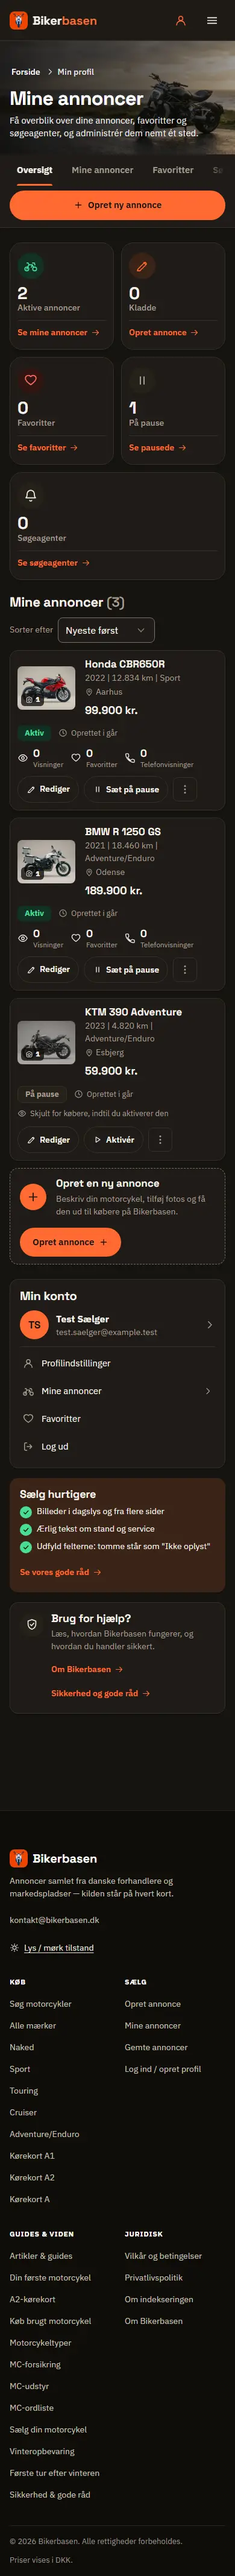
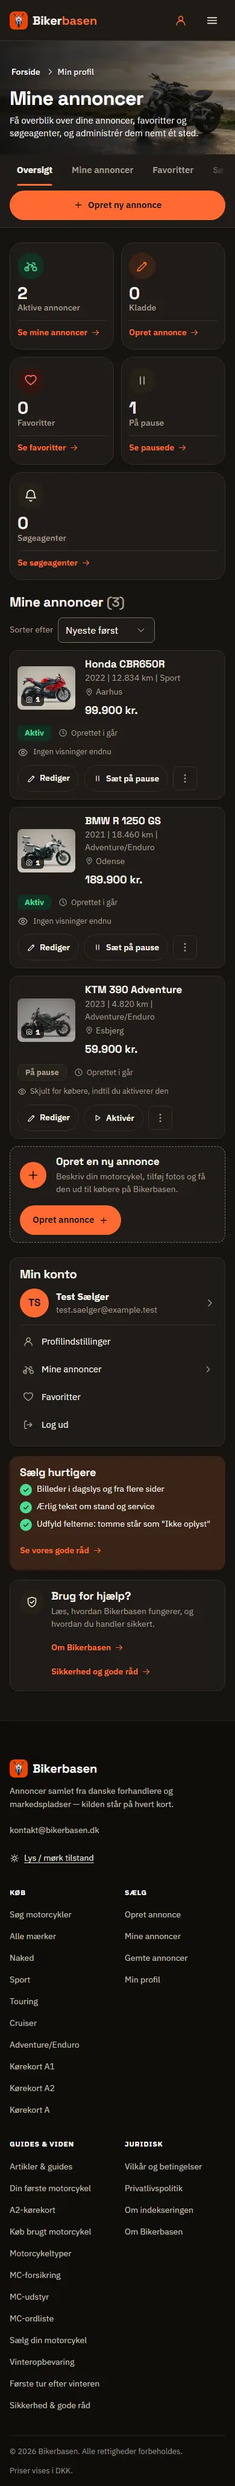
docs: agent5 iteration 3

Changed region(s): [[0.0308, 0.0, 1.0, 0.683], [0.0308, 0.683, 0.8, 0.9935], [0.5231, 0.8382, 0.8308, 0.9003]]

diff --git a/docs/review/gauntlet/visual/agent5-brugere.md b/docs/review/gauntlet/visual/agent5-brugere.md
@@ -75,3 +75,30 @@ K10 0 overflow 320-1440 lys+mørk, tap-mål >= 40, smoke strikt CLS < 0,05.
 - Artikel 7,3/10: komposition (hero + overlappende Kort fortalt, bred TOC, sektioner med moduler, tvivl-kort, sticky sidebjælke) er tæt; mangler lys rytterhero, forfatterfoto og type-kort på alle sektioner (fotos er guidens kortbillede + forsidefoto).
 - Login 8/10: kort + strimmel i første skærm, fade til foto, hel motorcykel, tillidsstrimmel; mangler rytter og håndskrevne captions, social login og 120.000+ (bevidst).
 - Mine annoncer 7,3/10: rigere kort med ikon og store tal, tællere med ikoner, opret-strimmel, hjælpekort, lavere lys hero; mangler Beskeder/visningsgraf/Udløber (findes ikke) og grøn farve (brand).
+
+---
+
+# Iteration 3 (efter Critic runde 2: artikel 6,5 / login 7,5 / mine annoncer 6,5)
+
+Critic: `critic2-agent5.md` (hovedrepoet). Billeder opdateret: `sbs-*` (mockup | efter), `efter-guide-*`, `efter-login-*`, `efter-mine-*` (lys, mørk, 390).
+
+## Acceptkriterier og resultat
+- Callouts må ikke gentage Kort fortalt eller stå to gange: hver callout er nu én regel-/råd-sætning FLYTTET ud af guidens egen brødtekst (fjernet fra afsnittet), valgt ud fra nøgleord (aldrig/undgå/kræver/skal/bør/tjek) og kun hvis den ikke ligner et Kort fortalt-punkt (Jaccard < 0,4). Guider uden egnet sætning har ingen callout (foerste, ordliste, udstyr). Testet pr. guide (10 guides).
+- Fem typefliser med foto og "Se X motorcykler" til `type-*.html` (>= 170 px) i alle 10 guides (rækken "Find motorcykler efter type" under artiklen, eller i brødteksten hvor den fandtes). Intet antal er bagt ind (generatoren har intet lager); ingen opdigtede tal.
+- Ingen foto to gange i artiklen (hero + artikelbilleder + fliser): inline-fotoet af forsidefotoet er fjernet; guidens kortbillede vises kun hvis det ikke er heroen eller en flise. Hero-crop varieres pr. guide (object-position), da kun ét heltefoto findes i repoet.
+- Hero <= 330 px (målt 282 px) og H1 <= 2 linjer, ingress 3 linjer; linjelængde <= 80 tegn (60 ch, målt ca. 69).
+- Mine annoncer: hero-crop viser forlygte og tank; blank flade over footer 160 -> ca. 40 px; "Ingen visninger endnu" i stedet for tre nuller (kun når alle tre er 0); ingen "Udløber" (findes ikke).
+- Login: opret-visningens højre kolonne har tre ærlige trin (opret, bekræft e-mail, gem/opret); fejlboksen er et overlay (ingen layout shift: e-mail-felt og knap har samme y før/efter fejl, testet); fejltekst >= 4,5:1 (målt); fordelstekstens flade er kraftigere/fastere.
+- Små ting: logo-link >= 44 px; favorit-badge skjult ved 0; footerens "Log ind / opret profil" bliver "Min profil" når man er logget ind (drawerens `data-auth-slot-mobile` skifter allerede til "Log ud"; "Log ind"-teksten Critic så var ikonets aria-label, som skifter til "Min profil").
+
+## Ikke gjort / ærligt
+- Mine annoncer: rækkens kolonner (foto | titel/pris | status | tællere | handlinger) er stadig sammenstøbt i status-kolonnen; fuld omstrukturering nåede jeg ikke.
+- Sælg-guidens sidebjælke: kortet "Oplyst effekt under A2" er en generator-funktion (data ved byg); uden lager er der kun Kort fortalt, tvivl-kort og mini-TOC (3 moduler).
+- Fotos pr. guide er stadig det samme heltefoto med forskelligt crop; typefotos er produktbilleder, ikke hero-egnede.
+- Critic nåede ikke om/vilkår/404/afmeld/dashboard-forhandler: kun overflow-, smoke- og tap-målt af mig (0 fund).
+
+## Måling
+`js/w14-brugere.test.js` 27/27, w7-funktion 34, w9-saelger 33, login-fejl, mine-annoncer, guides 85, w12-guides, w10-discovery, w12-kritisk 18, info-tekst 21.
+
+## Ærlig "ligner mockuppen: x/10"
+Artikel 7,6 · Login 8,3 · Mine annoncer 7,6.
